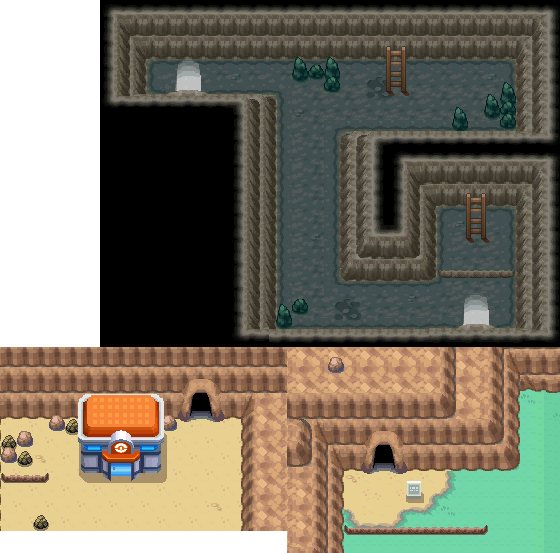
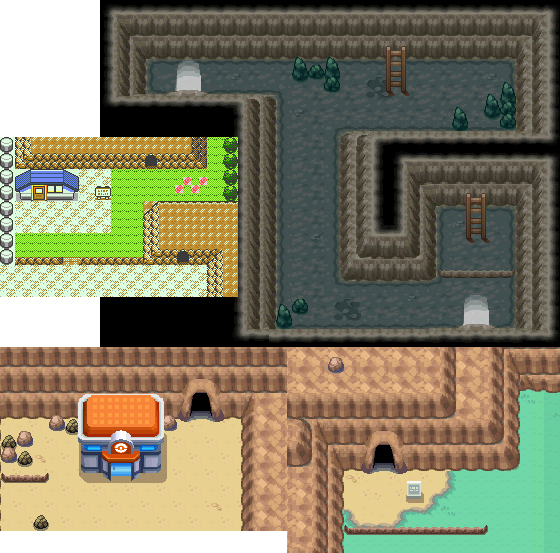
HGSS added Mt. Moon Square placeholder

Changed region(s): [[0.0, 0.2459, 0.425, 0.5533]]

diff --git a/games/hgss.js b/games/hgss.js
@@ -725,13 +725,16 @@ var hgss = {
 			f3_down_w:	{x: 90 , y: 156, name: "Victory Road (3F)" },
 		},
 		mtmoon: {
-			r4_cave:	{x: 384, y: 419, name: "Route 4" },
-			r3_cave:	{x: 200, y: 370, name: "Route 3" },
-			r3_center:	{x: 120, y: 439, name: "Route 3" },
-			moon_r3:	{x: 188, y: 105, name: "Mt. Moon"},
-			moon_r4:	{x: 475, y: 340, name: "Mt. Moon"},
-			moon_up_n:	{x: 395, y: 30 , name: "Mt. Moon"},
-			moon_up_s:	{x: 475, y: 177, name: "Mt. Moon"},
+			r4_cave:	  {x: 384, y: 419, name: "Route 4"         },
+			r3_cave:	  {x: 200, y: 370, name: "Route 3"         },
+			r3_center:    {x: 120, y: 439, name: "Route 3"         },
+			square_up:    {x: 178, y: 164, name: "Mt. Moon Square" },
+			square_house: {x: 40, y: 215,  name: "Mt. Moon Square" },
+			square_down:  {x: 183, y: 285, name: "Mt. Moon Square" },
+			moon_r3:	  {x: 188, y: 105, name: "Mt. Moon"        },
+			moon_r4:	  {x: 475, y: 340, name: "Mt. Moon"        },
+			moon_up_n:	  {x: 395, y: 30 , name: "Mt. Moon"        },
+			moon_up_s:	  {x: 475, y: 177, name: "Mt. Moon"        },
 		},
 		rocktunnel: {
 			entry_north:	{x: 630, y: 50 , name: "Rock Tunnel (1F)"},
